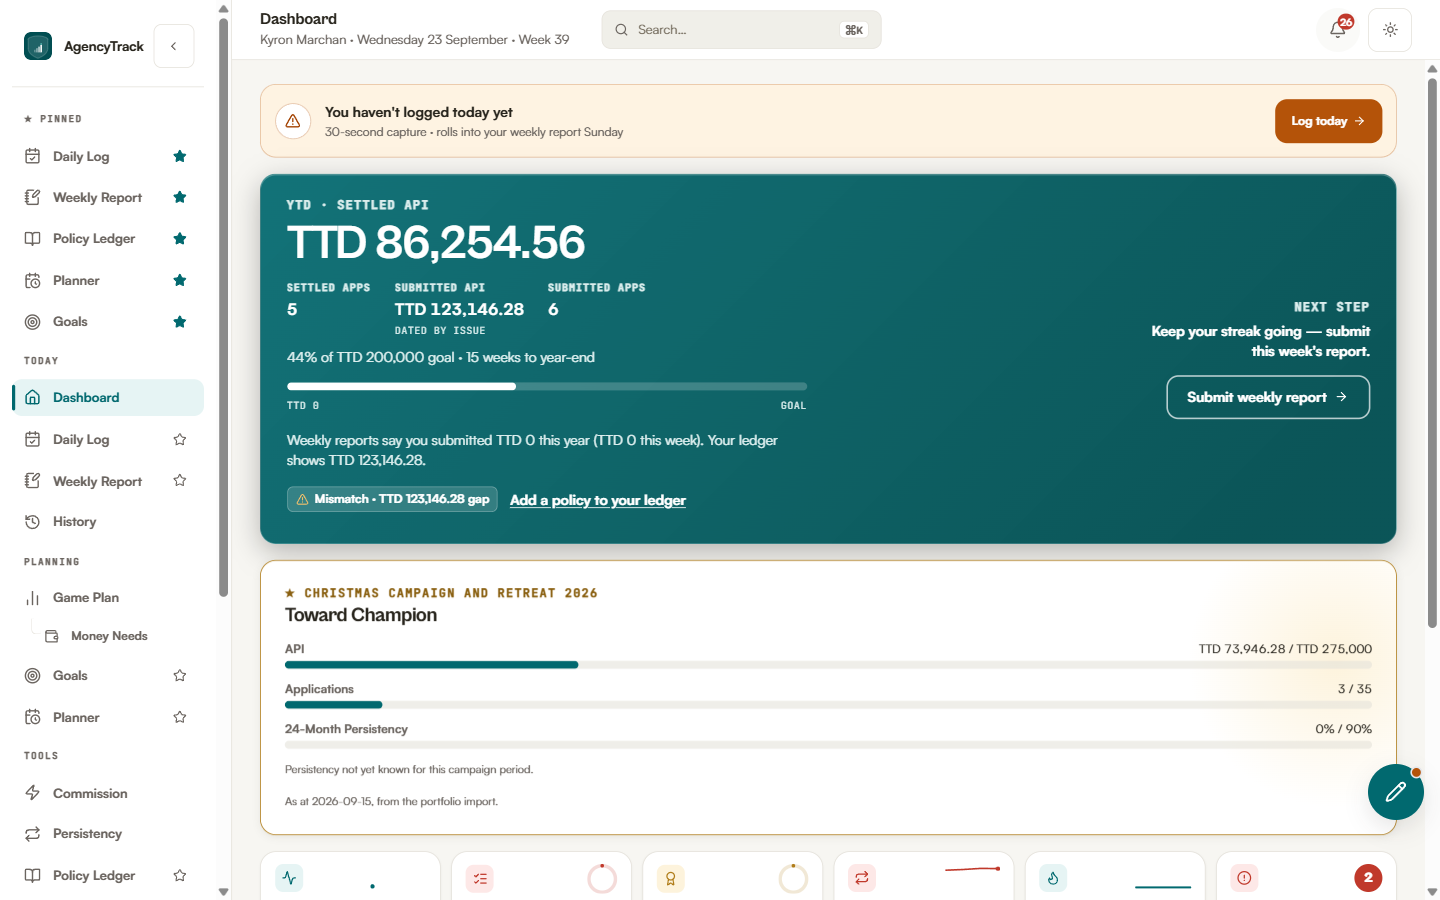
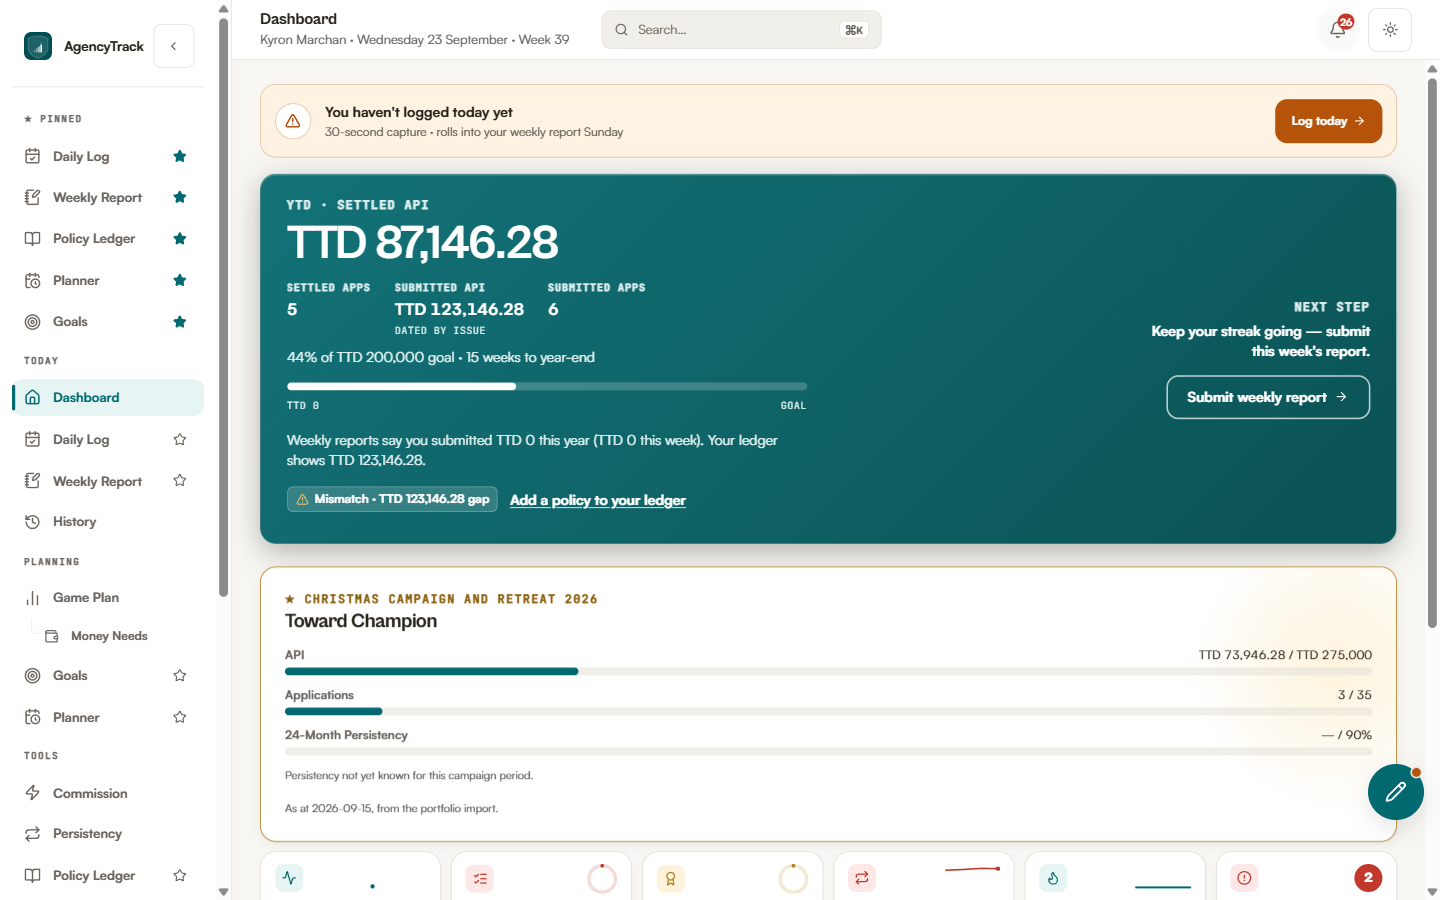
fix(campaign): honest persistency row — no fabricated 0%, 24-month preview
Pre-merge review on PR #970 (Kyron, 23 Sep 2026):

1. The persistency row never shows 0% for an unknown figure. Shows "—" and
   renders no bar fill instead — 0% on a binary gate reads as disqualified,
   which is a claim the card has no evidence for.
2. When the actual gate reading isn't available yet, the row previews the
   latest 24-month-model month on file ("54% as at August 2026"), never
   presented as the reading itself. `latestTwentyFourMonthReading()` reduces
   exactly one record through the same aggregatePersistency() math everyone
   else uses, filtered to `isTwentyFourMonthModel(monthKey)` records only
   (src/lib/persistency/model.js) — never the legacy-12-month ones.
3. Investigated the Home pulse-strip's "Persistency 54%" source
   (HomeV2/index.jsx line ~146): it runs aggregatePersistency() over EVERY
   record in the current calendar year, blending legacy-12-month records
   (before Sep 2026) with 24-month ones into one year-to-date number. That is
   not "the 24-month persistency" this brief asks for, so the preview does
   NOT reuse it — it filters to 24-month-model records first, then reduces
   the single latest one.
4. A preview below the gate threshold styles the row with Nexus warning
   tokens (bg-warning / text-warning-ink), never danger — it's provisional,
   not a disqualification.

The actual gate figure (persistencyPctForGate) always wins over the preview
when it's available — proven by a test with both a December finalMonth
[…]

diff --git a/src/components/campaigns/CampaignHeroCard.jsx b/src/components/campaigns/CampaignHeroCard.jsx
@@ -2,8 +2,33 @@ import React, { useMemo } from 'react';
 import { AlertTriangle } from 'lucide-react';
 import { derivePolicyLens } from '../../lib/policyCampaignLens';
 import { isTieredCampaign, normalizeGate, persistencyPctForGate, gateBandFor } from '../../utils/campaignEngine';
+import { aggregatePersistency } from '../../lib/persistency/calculations';
+import { isTwentyFourMonthModel } from '../../lib/persistency/model';
 import { formatCurrency } from '../../utils/formatters';
 import PanelSkeleton from '../ui/PanelSkeleton';
+
+const MONTH_KEY_RE = /^\d{4}-\d{2}$/;
+
+function monthYearLabel(monthKey) {
+  return new Date(`${monthKey}-01T12:00:00Z`).toLocaleDateString('en-TT', { month: 'long', year: 'numeric' });
+}
+
+// The latest 24-month-model record, reduced to its own persistency % — never
+// the pulse-strip's `aggregatePersistency(persistency.filter(year))`. That
+// figure blends legacy-12-month records (pre Sep 2026) with 24-month ones
+// into a single year-to-date number (see src/lib/persistency/model.js), which
+// is not "the 24-month persistency" the brief asks for. This reduces exactly
+// one record — the newest one that actually IS on the 24-month model — through
+// the same `aggregatePersistency` math everyone else uses, just scoped to one.
+function latestTwentyFourMonthReading(records) {
+  const eligible = (Array.isArray(records) ? records : [])
+    .filter((r) => r && MONTH_KEY_RE.test(r?.monthKey) && isTwentyFourMonthModel(r.monthKey));
+  if (!eligible.length) return null;
+  const latest = eligible.reduce((a, b) => (b.monthKey > a.monthKey ? b : a));
+  const { aggregatedPersistency, sumGrossSettled } = aggregatePersistency([latest]);
+  if (!(sumGrossSettled > 0)) return null;
+  return { pct: Math.round(aggregatedPersistency * 100), monthKey: latest.monthKey };
+}
 
 // ── Hero-ledger H3 ──────────────────────────────────────────────────────────
 //
@@ -61,6 +86,32 @@ export default function CampaignHeroCard({
   );
   const band = tiered && gateEnabled ? gateBandFor(persPct, gate) : null;
   const gateAchieved = Boolean(band && band.payout > 0);
+
+  // The actual gate reading wins whenever it exists. Only when it is still
+  // unknown (the finalMonth hasn't arrived, or the period has no data yet) do
+  // we fall back to a preview of the latest 24-month-model month on file —
+  // labelled as a preview, never presented as the reading itself.
+  const previewReading = useMemo(
+    () => (tiered && gateEnabled ? latestTwentyFourMonthReading(persistencyRecords) : null),
+    [tiered, gateEnabled, persistencyRecords],
+  );
+  const persistencyKnown = gateEnabled && persPct != null;
+  const persistencyPreview = !persistencyKnown && previewReading ? previewReading : null;
+  const persistencyDisplayPct = persistencyKnown ? persPct : persistencyPreview ? persistencyPreview.pct : null;
+  const persistencyAchieved = persistencyKnown
+    ? gateAchieved
+    : persistencyPreview
+      ? persistencyPreview.pct >= (gate?.threshold ?? 0)
+      : false;
+  const persistencyWarning = Boolean(persistencyPreview) && !persistencyAchieved;
+
+  const gateJudgedLabel = useMemo(() => {
+    if (!gate) return '';
+    if (gate.basis === 'finalMonth' && MONTH_KEY_RE.test(String(campaign?.endDate).slice(0, 7))) {
+      return `Gate judged on ${monthYearLabel(String(campaign.endDate).slice(0, 7))} · ${gate.threshold}% needed`;
+    }
+    return `Gate judged across the campaign period · ${gate.threshold}% needed`;
+  }, [gate, campaign]);
 
   if (loading) {
     return (
@@ -121,20 +172,42 @@ export default function CampaignHeroCard({
       <div className="flex flex-col gap-3 relative">
         <HeroRow label="API" current={lens.api.current} target={apiTarget} unit="TTD" achieved={apiAchieved} testId="campaign-hero-row-api" />
         <HeroRow label="Applications" current={lens.apps.current} target={appsTarget} unit="apps" achieved={appsAchieved} testId="campaign-hero-row-apps" />
-        <HeroRow
-          label="24-Month Persistency"
-          current={persPct ?? 0}
-          target={gate?.threshold ?? 0}
-          unit="%"
-          achieved={gateAchieved}
-          testId="campaign-hero-row-persistency"
-        />
-        {gateEnabled && persPct == null && (
+
+        <div className="flex flex-col gap-1" data-testid="campaign-hero-row-persistency">
+          <div className="flex items-center justify-between">
+            <span className="text-xs font-semibold text-ink-muted">24-Month Persistency</span>
+            <span className="text-xs text-ink tabular-nums">
+              {persistencyDisplayPct == null ? '—' : `${persistencyDisplayPct}%`}
+              {persistencyPreview && ` as at ${monthYearLabel(persistencyPreview.monthKey)}`}
+              {' / '}{gate?.threshold ?? 0}%
+            </span>
+          </div>
+          <div className="h-2 w-full rounded-full bg-border/60 overflow-hidden">
+            {persistencyDisplayPct != null && (
+              <div
+                data-testid="campaign-hero-persistency-bar-fill"
+                className={`h-2 rounded-full transition-all duration-500 ${
+                  persistencyWarning ? 'bg-warning' : persistencyAchieved ? 'bg-success' : 'bg-primary'
+                }`}
+                style={{
+                  width: `${gate?.threshold > 0 ? Math.min(100, Math.round((persistencyDisplayPct / gate.threshold) * 100)) : 0}%`,
+                }}
+              />
+            )}
+          </div>
+        </div>
+        {persistencyKnown ? null : persistencyPreview ? (
+          <p
+            className={`text-[11px] ${persistencyWarning ? 'text-warning-ink font-semibold' : 'text-ink-muted'}`}
+            data-testid="campaign-hero-persistency-preview-note"
+          >
+            {gateJudgedLabel}
+          </p>
+        ) : gateEnabled ? (
           <p className="text-[11px] text-ink-muted" data-testid="campaign-hero-persistency-unknown">
             Persistency not yet known for this campaign period.
           </p>
-        )}
-        {!gateEnabled && (
+        ) : (
           <p className="text-[11px] text-ink-muted" data-testid="campaign-hero-persistency-ungated">
             This campaign does not gate on persistency.
           </p>

diff --git a/src/components/campaigns/__tests__/CampaignHeroCard.test.jsx b/src/components/campaigns/__tests__/CampaignHeroCard.test.jsx
@@ -26,6 +26,16 @@ const CAMPAIGN = {
 
 const NON_TIERED_CAMPAIGN = { id: 'x', name: 'Placement thing', structure: 'placement' };
 
+// The real Christmas Campaign's gate is judged at a single final month
+// (December 2026 — CONTEXT.md's C5 authoring note), not a period aggregate.
+// Used for the preview-vs-known-figure precedence tests, since a
+// periodAggregate basis (CAMPAIGN above) folds a single month straight into
+// the known figure and never exercises the preview path at all.
+const FINAL_MONTH_CAMPAIGN = {
+  ...CAMPAIGN,
+  persistencyGate: { mode: 'binary', basis: 'finalMonth', threshold: 90 },
+};
+
 const policy = (over = {}) => ({
   id: 'p1',
   productLine: 'life',
@@ -84,12 +94,52 @@ describe('CampaignHeroCard', () => {
     expect(screen.getByText(/Toward Champion/)).toBeInTheDocument();
   });
 
-  it('shows "not yet known" when no persistency record covers the campaign period', () => {
+  it('shows "—" (never a fabricated 0%) when no persistency record covers the campaign period', () => {
     render(<CampaignHeroCard campaign={CAMPAIGN} policies={POLICIES} persistencyRecords={[]} />);
     const persistencyRow = screen.getByTestId('campaign-hero-row-persistency');
-    expect(persistencyRow.textContent).toContain('0%');
+    expect(persistencyRow.textContent).toContain('—');
+    expect(persistencyRow.textContent).not.toMatch(/\b0%/);
     expect(persistencyRow.textContent).toContain('90%');
+    expect(screen.queryByTestId('campaign-hero-persistency-bar-fill')).not.toBeInTheDocument();
     expect(screen.getByTestId('campaign-hero-persistency-unknown')).toBeInTheDocument();
+  });
+
+  it('previews the latest 24-month-model reading below 90% as a warning, never as the gate figure itself', () => {
+    // Not December (the campaign's finalMonth), so the actual gate figure is
+    // still unknown — this record is on the 24-month model (>= 2026-09) and
+    // becomes the preview.
+    const records = [{ monthKey: '2026-09', grossSettled: 100_000, netSettled: 80_000 }];
+    render(<CampaignHeroCard campaign={FINAL_MONTH_CAMPAIGN} policies={POLICIES} persistencyRecords={records} />);
+    const persistencyRow = screen.getByTestId('campaign-hero-row-persistency');
+    expect(persistencyRow.textContent).toContain('80%');
+    expect(persistencyRow.textContent).toContain('as at September 2026');
+    expect(persistencyRow.textContent).toContain('90%');
+
+    const note = screen.getByTestId('campaign-hero-persistency-preview-note');
+    expect(note.textContent).toBe('Gate judged on December 2026 · 90% needed');
+    expect(note.className).toContain('text-warning-ink');
+
+    const fill = screen.getByTestId('campaign-hero-persistency-bar-fill');
+    expect(fill.className).toContain('bg-warning');
+  });
+
+  it('a December (finalMonth) reading wins over an earlier 24-month preview', () => {
+    const records = [
+      { monthKey: '2026-09', grossSettled: 100_000, netSettled: 60_000 }, // preview-eligible, would read 60%
+      // persistencyPctAtFinalMonth reads the record's own `persistency`
+      // fraction directly (campaignEngine.js), not grossSettled/netSettled —
+      // a real saved record carries both (calculations.js `deriveAll`).
+      { monthKey: '2026-12', grossSettled: 100_000, netSettled: 92_000, persistency: 0.92 },
+    ];
+    render(<CampaignHeroCard campaign={FINAL_MONTH_CAMPAIGN} policies={POLICIES} persistencyRecords={records} />);
+    const persistencyRow = screen.getByTestId('campaign-hero-row-persistency');
+    expect(persistencyRow.textContent).toContain('92%');
+    expect(persistencyRow.textContent).not.toContain('60%');
+    expect(persistencyRow.textContent).not.toContain('as at September 2026');
+    expect(screen.queryByTestId('campaign-hero-persistency-preview-note')).not.toBeInTheDocument();
+
+    const fill = screen.getByTestId('campaign-hero-persistency-bar-fill');
+    expect(fill.className).toContain('bg-success');
   });
 
   it('reads a real persistency record against the 90% gate and clears it', () => {
